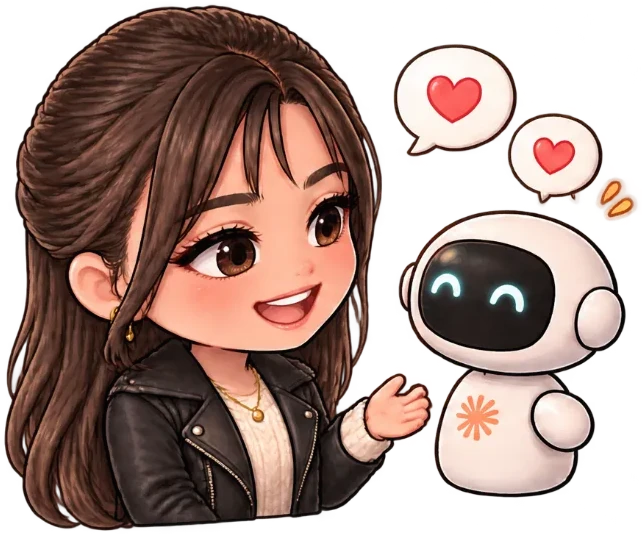
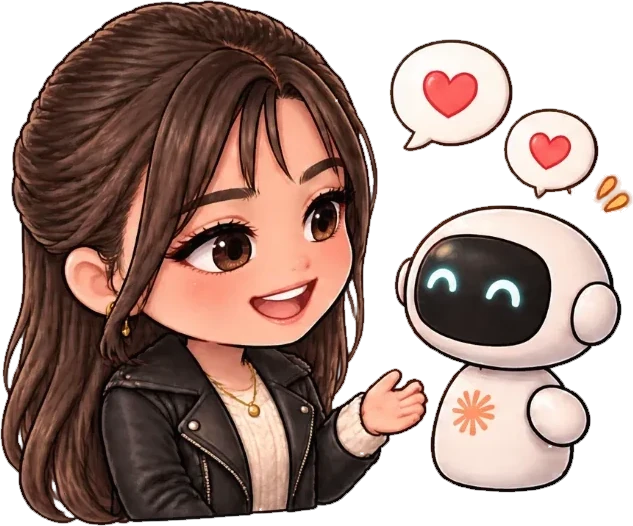
Hebrew edition: a character sticker for every line
- New sticker set made with Krea (GPT Image 2.6 Flare) from the existing character:
  learn, power, agents, build, design, work, exam; no hearts, no text
- White sticker outline and stray haze removed; one file per line in assets/stickers/lines
- Hebrew home map shows each line's sticker; each line page shows it above the title
- Home page sticker (chat-robot) also without the white outline

Claude-Session: https://claude.ai/code/session_01GW1Xrcab2NvVL6EBGkTU1q

Changed region(s): [[0.0, 0.0, 1.0, 1.0], [0.7804, 0.4563, 0.8404, 0.4867], [0.4803, 0.6084, 0.5103, 0.6388]]

diff --git a/js/app.js b/js/app.js
@@ -25,6 +25,9 @@
 
   /* ------------------------------------------------------------- indexing */
   const LINE = { m1: 'l1', m2: 'l2', m6: 'l3', m3: 'l4', m4: 'l5', m7: 'l6', m5: 'lx', exam: 'lx' };
+  // Hebrew edition: one character sticker per line (assets/stickers/lines/)
+  const LINE_ART = { m1: 'learn', m2: 'power', m6: 'agents', m3: 'build', m4: 'design', m7: 'work', m5: 'exam' };
+  const lineArt = (m, cls) => (L === 'he' && LINE_ART[m.id] ? `<img class="${cls}" src="assets/stickers/lines/${LINE_ART[m.id]}.webp" alt=""${cls === 'line-thumb' ? ' loading="lazy"' : ''}>` : '');
   const lineVars = (line) => `--c:var(--${line});--ci:var(--${line}-ink);--cs:var(--${line}-soft);--on-c:var(--on-${line});--accent:var(--${line});--accent-ink:var(--${line}-ink);--accent-soft:var(--${line}-soft);--on-accent:var(--on-${line})`;
   const MODS = CT.modules.slice().sort((a, b) => a.n - b.n);
   const MBY = {}; const LESSONS = []; const LBY = {};
@@ -313,10 +316,11 @@
     const lines = MODS.map((m, i) => {
       const nxt = MODS[i + 1];
       return `<section class="line" style="${lineVars(m.line)}" aria-label="${esc(tx(m.title))}">
-        <a class="line-head" href="#${m.id}">
+        <a class="line-head${L === 'he' && LINE_ART[m.id] ? ' has-art' : ''}" href="#${m.id}">
           <span class="linebadge">${m.n}</span>
           <span><span class="eyebrow">${esc(t('lineN', { n: m.n }))}</span><h2>${esc(tx(m.title))}</h2><span class="sub">${esc(tx(m.subtitle))}</span>
           <span class="meta tnum"><span class="bar"><i style="width:${pctDone(m)}%"></i></span>${doneCount(m)}/${m.lessons.length} · ${Math.round(minutes(m) / 6) / 10} ${esc(t('hours'))}</span></span>
+          ${lineArt(m, 'line-thumb')}
         </a>
         ${stationsHTML(m, curId)}
       </section>
@@ -324,7 +328,7 @@
     }).join('');
     return `<div class="view">
       <section class="hero">
-        ${L === 'he' ? `<img class="hero-art" src="assets/stickers/chat-robot.webp" width="642" height="535" alt="${esc(t('heroArtAlt'))}">` : ''}
+        ${L === 'he' ? `<img class="hero-art" src="assets/stickers/chat-robot.webp" width="633" height="526" alt="${esc(t('heroArtAlt'))}">` : ''}
         <span class="eyebrow">${esc(t('homeEyebrow'))}</span>
         <h1>${esc(t('homeTitle'))}</h1>
         <p>${md(t('homeIntro'))}</p>
@@ -354,7 +358,8 @@
     const target = m.lessons.find((l) => !S.done[l.id]) || m.lessons[0];
     const nxt = MODS[MODS.indexOf(m) + 1];
     return `<div class="view" style="${lineVars(m.line)}">
-      <section class="mod-hero">
+      <section class="mod-hero${L === 'he' && LINE_ART[m.id] ? ' has-art' : ''}">
+        ${lineArt(m, 'line-art')}
         <div class="row"><span class="linebadge">${m.n}</span><span class="eyebrow">${esc(t('lineN', { n: m.n }))} · ${m.lessons.length} ${esc(t('lessons'))} · ${Math.round(minutes(m) / 6) / 10} ${esc(t('hours'))}</span></div>
         <h1>${esc(tx(m.title))}</h1>
         <p class="lead">${md(tx(m.intro || m.subtitle))}</p>

diff --git a/css/app.css b/css/app.css
@@ -131,6 +131,11 @@ label.field small { font-weight: 400; color: var(--ink-2); }
 .line-head .sub { font-size: .92rem; color: var(--ink-2); }
 .line-head .meta { display: flex; gap: 10px; align-items: center; margin-top: 6px; font-size: .82rem; color: var(--ink-3); }
 .line-head .meta .bar { flex: 1; max-width: 180px; height: 6px; }
+/* Hebrew edition: a character sticker for each line */
+.line-head.has-art { grid-template-columns: 44px 1fr 96px; }
+.line-thumb { width: 96px; height: 96px; object-fit: contain; align-self: center; }
+.mod-hero.has-art { padding-top: 14px; }
+.line-art { display: block; width: min(64%, 260px); height: auto; justify-self: center; }
 .stations { list-style: none; margin: 0 0 6px; padding: 0; }
 .station { display: grid; grid-template-columns: 44px 1fr; gap: 12px; min-height: 58px; }
 .track { position: relative; }

diff --git a/README.md b/README.md
@@ -80,7 +80,8 @@ give them at least Contributor access.
 index.html          Page shell: markup, the stylesheet links and the script tags (published as the artifact page)
 css/tokens.css      Design system: black-and-grey neutrals, sunset line colours, fonts, light and dark themes
 css/app.css         Components and layout (uses only the variables from tokens.css)
-assets/stickers/    Character stickers: the full sheet plus one file per pose (chat-robot is on the Hebrew home page)
+assets/stickers/    Character stickers: the first sheet plus one file per pose (chat-robot is on the Hebrew home page)
+assets/stickers/lines/  One sticker per line for the Hebrew edition (made with Krea from the first sheet); sheet-lines.webp is the full set
 js/core.js          Helpers: escaping, inline markdown, icons
 js/app.js           Engine: routing, language switch, progress, highlights, notebook, quizzes, exam, saving
 js/widgets.js       Interactive widgets and the terminal simulator
